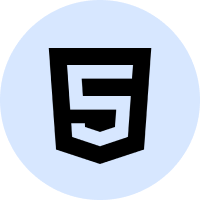
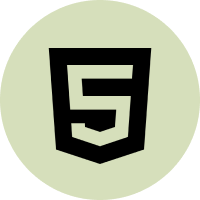
replace skills images

diff --git a/src/components/homePage/IndustryProjects/IndustryProjects.scss b/src/components/homePage/IndustryProjects/IndustryProjects.scss
@@ -6,16 +6,19 @@
     left: 0;
     margin-top: 200px;
     max-width: 300px;
+    margin-left: 110px !important;
+    text-align: left !important;
   }
   .industry-projects-list {
     .project-item {
       border-radius: 8px;
       border: 1px solid #e8e8e8;
-      width: 290px;
+      width: 384px;
       height: 326px;
       align-items: center;
       display: flex;
       flex-direction: column;
+      border: 2.3px solid #728e70;
       cursor: pointer;
 
       .project-thumbnail {
@@ -27,8 +30,7 @@
       .content-wrapper {
         display: flex;
         justify-content: space-between;
-        width: 260px;
-        margin-left: 45px;
+        width: 88%;
         .title {
           font-size: 18px;
           font-weight: 700;
@@ -36,12 +38,12 @@
         }
         .project-button {
           border: none;
-          background-color: #d7e7ff;
+          background-color: #728e70;
           border-radius: 50%;
           width: 40px;
           height: 40px;
           cursor: pointer;
-          opacity: 0;
+          //opacity: 0;
           img {
             width: 24px;
             height: 24px;
@@ -50,16 +52,16 @@
         }
       }
     }
-    .project-item:hover {
-      .content-wrapper {
-        transform: translateX(-20px);
-        transition: transform 0.25s linear;
-        .project-button {
-          opacity: unset;
-          transition: opacity 0.7s;
-        }
-      }
-    }
+    // .project-item:hover {
+    //   .content-wrapper {
+    //     transform: translateX(-20px);
+    //     transition: transform 0.25s linear;
+    //     .project-button {
+    //       opacity: unset;
+    //       transition: opacity 0.7s;
+    //     }
+    //   }
+    // }
   }
 }
 

diff --git a/src/components/homePage/IndustryProjects/IndustryProjectCarousel/IndustryProjectCarousel.scss b/src/components/homePage/IndustryProjects/IndustryProjectCarousel/IndustryProjectCarousel.scss
@@ -1,6 +1,6 @@
 .industry-projects-list {
   max-width: 60%;
-  margin: 0px 0px 0px auto;
+  margin: 0px 0px 80px auto;
   text-align: right;
   .carousel-container {
     margin: 0 auto;
@@ -9,18 +9,17 @@
       margin-bottom: 88px;
     }
     .react-multiple-carousel__arrow {
-      background: white;
-      box-shadow: 0px 4px 10px rgba(0, 0, 0, 0.15);
+      background: unset;
       z-index: 10;
       margin-bottom: 675px;
       min-width: 40px;
       min-height: 40px;
-      border-color: #e8e8e8;
-      border-width: 1px;
+      border-color: #728e70;
+      border-width: 2.3px;
       border-style: solid;
       cursor: pointer;
       &::before {
-        color: black;
+        color: #728e70;
       }
     }
     .react-multiple-carousel__arrow:disabled {
@@ -39,7 +38,6 @@
   }
 
   .project-item {
-    height: 628px;
     border-radius: 8px;
     margin-right: 32px; /* Adjust this value to set the gap between slides */
   }

diff --git a/src/components/homePage/Skills/SkillsData.ts b/src/components/homePage/Skills/SkillsData.ts
@@ -4,6 +4,7 @@ const Skill3 = require("../../../assets/skill-3.png");
 const Skill4 = require("../../../assets/skill-4.png");
 const Skill5 = require("../../../assets/skill-5.png");
 const Skill6 = require("../../../assets/skill-6.png");
+const Skill7 = require("../../../assets/skill-7.png");
 
 export const skillsData = [
   {
@@ -29,5 +30,13 @@ export const skillsData = [
   {
     image: Skill6,
     title: "Sharepoint framework (SPFx)",
+  },
+  {
+    image: Skill7,
+    title: "Figma",
+  },
+  {
+    image: Skill7,
+    title: "Amazon Web Services - AWS",
   },
 ];

diff --git a/src/components/homePage/Skills/Skills.scss b/src/components/homePage/Skills/Skills.scss
@@ -1,4 +1,5 @@
 .skills-container {
+  height: 820px;
   .skills-wrapper {
     display: flex;
     flex-wrap: wrap;
@@ -6,14 +7,16 @@
     list-style: none;
     padding: unset;
     margin-top: 65px;
+    max-width: 1300px;
+    margin: auto;
     .skill-item {
-      width: 384px;
-      height: 384px;
-      background: #f4f4f4;
+      width: 283px;
+      height: 226px;
       display: flex;
       flex-direction: column;
       align-items: center;
       font-size: 24px;
+      margin-bottom: 70px;
       .image {
         width: 100px;
         height: 100px;

diff --git a/src/components/homePage/IndustryProjects/IndustryProjectCarousel/IndustryProjectCarousel.tsx b/src/components/homePage/IndustryProjects/IndustryProjectCarousel/IndustryProjectCarousel.tsx
@@ -5,7 +5,7 @@ import "./IndustryProjectCarousel.scss";
 import { IndustryProjectsData } from "../IndustryProjectsData";
 import IndustryProjectsPopUp from "../IndustryProjectsPopUp/IndustryProjectsPopUp";
 
-const arrowImg = require("../../../../assets/arrow-right-black.png");
+const arrowImg = require("../../../../assets/arrow-right-white.png");
 
 export default function IndustryProjectCarousel() {
   const [modalProps, setModalProps] = useState({});

diff --git a/src/components/homePage/Projects/Projects.scss b/src/components/homePage/Projects/Projects.scss
@@ -19,6 +19,7 @@
       overflow: hidden;
       color: unset;
       text-decoration: unset;
+      border-radius: 10px;
       &:before {
         content: "";
         position: absolute;
@@ -31,6 +32,7 @@
         transform: scale(1);
         transform-origin: 50% 50%;
         transition: transform 0.4s ease-in;
+        border-radius: 10px;
       }
       &:hover:before {
         transform: scale(3);

diff --git a/src/components/homePage/HomePage.tsx b/src/components/homePage/HomePage.tsx
@@ -16,7 +16,7 @@ export default function HomePage(props: any) {
       />
       <Projects ref={props.projectRef} />
       <IndustryProjects />
-      <WorkExperience />
+      {/* <WorkExperience /> */}
       <Skills />
       <Contact ref={props.contactRef} />
     </div>
